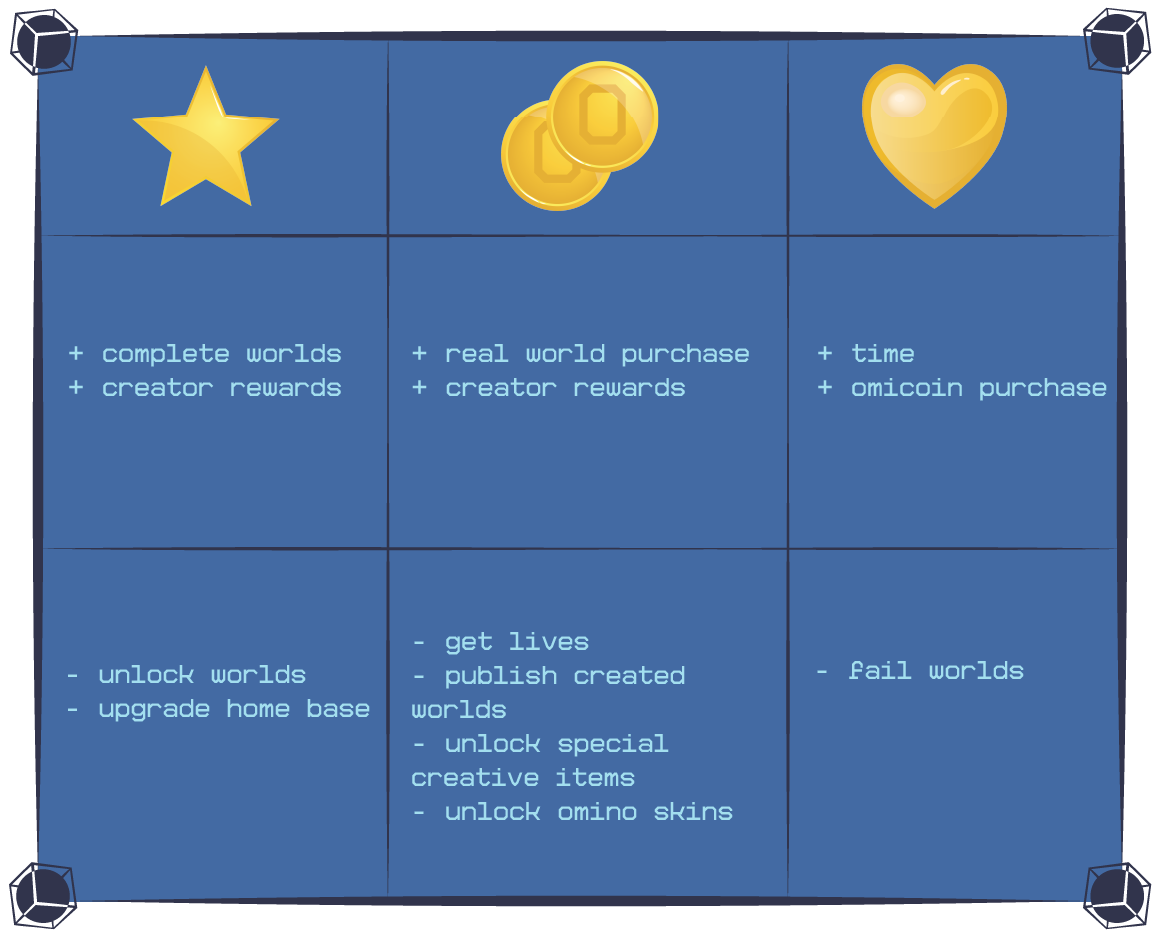
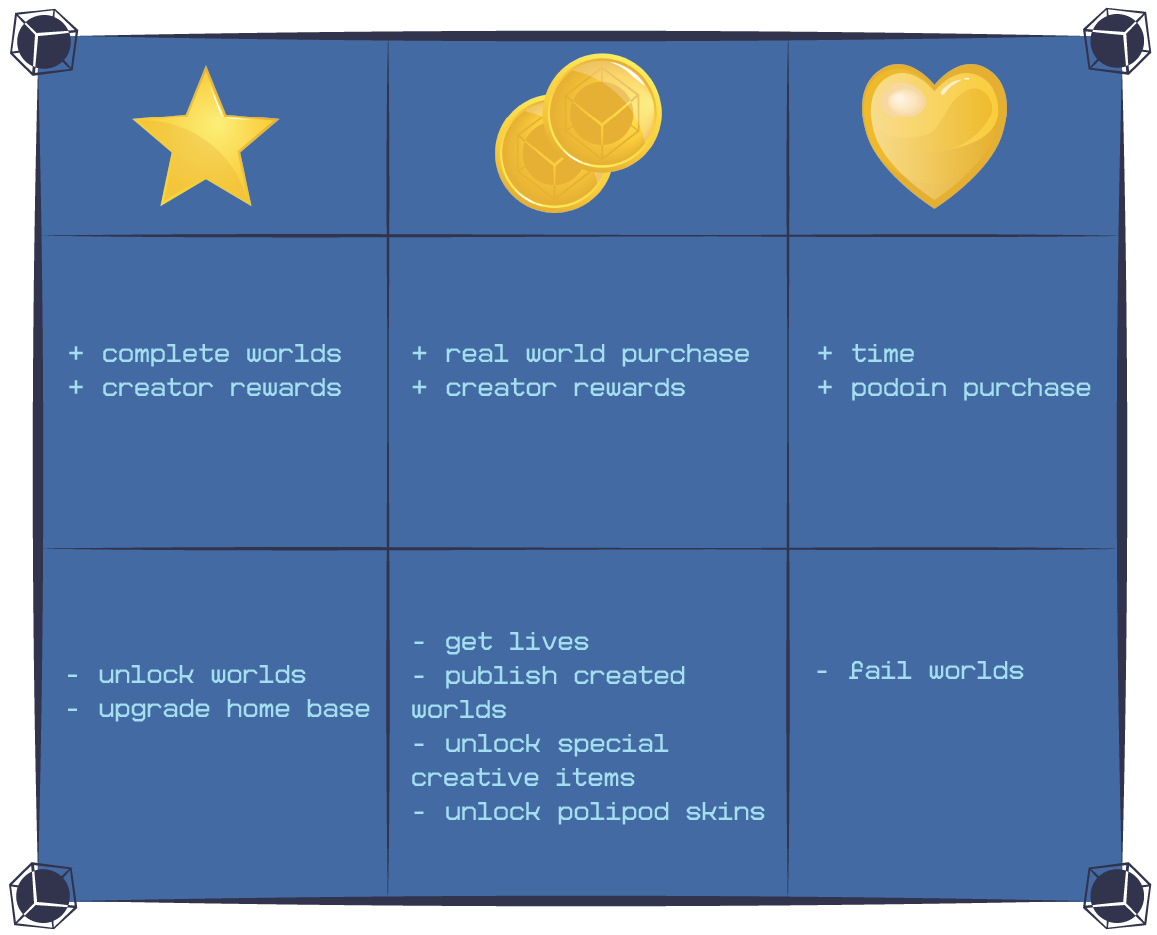
First Polipod update

diff --git a/src/features/Components/Gameplay.jsx b/src/features/Components/Gameplay.jsx
@@ -10,35 +10,35 @@ const Gameplay = () => {
                 <div className="new-grid">
                     <div className="new-grid-item">
                         <p>
-                            Omino is an isometric puzzle game where the goal is to guide a cube-shaped character into a hole on a square grid. The game demands problem solving skills, knowledge of game mechanics, spatial reasoning, computational and algorithmic thinking. 
+                            Polipod is an isometric puzzle game where the goal is to guide a cube-shaped character into a hole on a square grid. The game demands problem solving skills, knowledge of game mechanics, spatial reasoning, computational and algorithmic thinking. 
                             The player inhabits a cube, known as an Omino, which moves around by rolling.
                         </p>
                     </div>
                     <div className="new-grid-item">
-                        <Image src="images/firstCropped.png" alt="Omino" />
+                        <Image src="images/firstCropped.png" alt="Polipod" />
                     </div>
                     <div className="new-grid-item">
                     <p>
-                        Along the way, the player Omino encounters passive Ominoes. 
-                        The player Omino will attach itself to any passive Omino when one of its sides are directly adjacent to a side of a passive omino, forming a composite Omino. 
-                        Eventually more than one passive Omino is introduced, sometimes requiring the formation of interesting Domino shapes, which can dramatically change player movement.
+                        Along the way, the player Polipod encounters passive pods, called Dormipods. 
+                        The player Polipod will attach itself to any Dormipods when one of its sides are directly adjacent to a side of a Dormipod, forming a composite Polipod. 
+                        Eventually more than one Dormipod is introduced, sometimes requiring the formation of interesting Polipod shapes, which can dramatically change player movement.
                     </p>
                     </div>
                     <div className="new-grid-item">
-                        <Image src="images/crazyShape.png" alt="Omino" />
+                        <Image src="images/crazyShape.png" alt="Polipod" />
                     </div>
                     <div className="new-grid-item">
                         <p>
-                            The movement pattern can also be influenced by the environment. Different properties of environment blocks can create some physical interactions with Omino. 
-                            A typical example can be the movement on the ice, this will lead to a sliding motion of the Omino, instead of a roll, when there is a force applied.
+                            The movement pattern can also be influenced by the environment. Different properties of environment blocks can create some physical interactions with Polipod. 
+                            A typical example can be the movement on the ice, this will lead to a sliding motion of the Polipod, instead of a roll, when there is a force applied.
 
-                            On some levels, there can be switches in different colors. When an Omino onto a switch, it triggers the response from a certain environment setting such as a door or a bridge with the same color as the switch.
+                            On some levels, there can be switches in different colors. When an Polipod rolls onto a switch, it triggers the response from a certain environment setting such as a door or a bridge with the same color as the switch.
                             
-                            At certain environment blocks, attached blocks can also be detached from the Omino.
+                            If you roll onto a sucction cup, attached cubes can also be detached from the Polipod.
                         </p>
                     </div>
                     <div className="new-grid-item">
-                        <Image src="images/onIce.png" alt="Omino" />
+                        <Image src="images/onIce.png" alt="Polipod" />
                     </div>
                 </div>
             </div>

diff --git a/src/features/Us.jsx b/src/features/Us.jsx
@@ -7,14 +7,14 @@ const Us = () => {
                 <div className="new-grid us-grid">
                     <div className="multi-paragraph-item us-text">
                         <p>It all started as a school project in the fall of 2020 at KTH in Stockholm. Since the project was complete, the development has continued intermitttently and now it's finally starting to come together.</p>
-                        <p>Hannes Runelöv has been a crucial cog in this project, as he had the idea for the core mechanics of the game. He also developed these mechanics in addition to Omino creature animations, as well as creating shaders, such as ice and conveyor belts. Due to personal reasons, he will just stay on as a level designer and tester going forward.</p>
-                        <p>Everything else that you see and hear in the game was designed and developed by Jesper Englund, including game logic, level editor, data architecture, UI, movement mechanics and environment interactions, level design, music, sound effects, skyboxes and this website.</p>
+                        <p>I had some collaborators during that project, but none of them chose to continue working on the project with me. The few things that were not orignially done by me has been remade/rewritten/redesigned. So everything in Polipod was designed and developed by Jesper Englund, including game logic, level editor, data architecture, UI, shaders, movement mechanics and environment interactions, level design, music, sound effects, skyboxes and this website.</p>
+                        <p>In the fall of 2023 I started the company Omino Games AB, which will be publishing Polipod, but it's still just me working on it.</p>
                     </div>
                     <div className="center">
                         <div className="us-img-container">
                             <img src="images/jesperTransparent.png" className="grid-img us-img" alt="Jesper" />
                             <div className="img-caption">
-                                <p>Jesper Englund - Developer, designer, project manager etc.</p>
+                                <p>Jesper Englund - CEO, Developer, designer, project manager etc.</p>
                             </div>
                         </div>
                     </div>

diff --git a/src/features/Components/CreativeMode.jsx b/src/features/Components/CreativeMode.jsx
@@ -12,12 +12,12 @@ const CreativeMode = () => {
                         <img src="images/levelEditor.png" alt="Omino" />
                     </div>
                     <div className="multi-paragraph-item">
-                        <p>One of the many things that makes Omino special is the player's ability to create custom worlds and levels in an easy-to-use level editor. 
+                        <p>One of the many things that makes Polipod special is the player's ability to create custom worlds and levels in an easy-to-use level editor. 
                             This unlocks the potential of having a sea of great and unique player created content to dive into. 
                         </p>
                         <p>
                             This feature also entails a form of asynchronous multiplayer.
-                            One player might create a world and set its highscore on it, a highscore that can be set as a minimum requirement for clearing the world, 
+                            One player might create a world and set its highscore on it, a highscore that can be set as a minimum requirement for completing the world, 
                             effectively challenging any other player to beat them at their own world.
                         </p>
                         <p>

diff --git a/src/features/Components/GameEconomy.jsx b/src/features/Components/GameEconomy.jsx
@@ -18,7 +18,7 @@ const GameEconomy = () => {
                             If it's a player created world, the amount of currency earned depends on the rating of the world. The same currency is also used to unlock new worlds.
                         </p>
                         <p>
-                            There is also a hard currency, coins, which can be used to buy skins, for the Omino or for certain building blocks in the level editor, special environments in the level editor, and possibly special music for the worlds created. 
+                            There is also a hard currency, coins, which can be used to buy skins, for the Polipod or for certain building blocks in the level editor, special environments in the level editor, and possibly special music for the worlds created. 
                             This currency is also used to publish more than 1 world. This will cost real world money because of the cost of storing world data as well as a way to encourage quality in player created worlds.
                         </p>
                         <p>

diff --git a/src/features/Components/DemoVideo.jsx b/src/features/Components/DemoVideo.jsx
@@ -1,8 +1,11 @@
 const DemoVideo = () => {
     return (
-        <div className="center">
-            <iframe width="560" height="315" src="https://www.youtube.com/embed/lzzkix9G_TU" title="Demo video" allow="fullscreen; accelerometer; autoplay; clipboard-write; encrypted-media; gyroscope; picture-in-picture; web-share"></iframe>
-        </div>
+        <>
+            <div className="my-grid-header"><h3>gameplay</h3></div>
+            <div className="center">
+                <iframe width="560" height="315" src="https://www.youtube.com/embed/lzzkix9G_TU" title="Demo video" allow="fullscreen; accelerometer; autoplay; clipboard-write; encrypted-media; gyroscope; picture-in-picture; web-share"></iframe>
+            </div>
+        </>
     );
 }
 export default DemoVideo;

diff --git a/src/utils/threeUtils.js b/src/utils/threeUtils.js
@@ -70,13 +70,13 @@ export const createSceneObjects = (scene) => {
         homeTextMesh.rotation.set(-Math.PI/2,0,0);
         homeTextMesh.name = 'homeText';
         scene.scene.add(homeTextMesh);
-        const gameTextGeometry = new TextGeometry('game', {
-          size: 4,
+        const gameTextGeometry = new TextGeometry('polipod', {
+          size: 2.8,
           height: 0.1,
           font: bigPixel,
         });
         const gameTextMesh = new THREE.Mesh(gameTextGeometry, textMaterial);
-        gameTextMesh.position.set(-7.5, -9.85, 1.5);
+        gameTextMesh.position.set(-9.2, -9.85, 1.5);
         gameTextMesh.rotation.set(-Math.PI/2,0,0);
         gameTextMesh.name = 'gameText';
         scene.scene.add(gameTextMesh);

diff --git a/src/features/Home.jsx b/src/features/Home.jsx
@@ -4,7 +4,7 @@ import News from "./Components/News";
 
 const Home = () => {
     const carouselItems = [
-        { name: 'splash', img: 'images/OminoFullLogoOneColor.png', imgAlt: 'First image', imgStyle: 'opacity-25', caption: <Splash /> },
+        { name: 'splash', img: 'images/OminoGamesLogo.png', imgAlt: 'First image', imgStyle: 'opacity-25', caption: <Splash /> },
         { name: 'news', img: 'images/4fly.png', imgAlt: 'second image', caption: <News /> },
       ];
       

diff --git a/src/features/Components/Progression.jsx b/src/features/Components/Progression.jsx
@@ -15,7 +15,7 @@ const Progression = () => {
                         </p>
                     </div>
                     <div className="new-grid-item long-pic">
-                        <Image src="images/worldBrowser.png" alt="Omino" />
+                        <Image src="images/worldBrowser.png" alt="Polipod" />
                     </div>
                 </div>
             </div>

diff --git a/src/features/Components/Splash.jsx b/src/features/Components/Splash.jsx
@@ -9,7 +9,7 @@ const Splash = () => {
     return (
         <div className="splash">
             <div className='download-btn-container'>
-                <button className="lg">download</button>
+                <button className="lg">download polipod</button>
             </div>
             <div className="icons-container">
                 <div className="autogrid">

diff --git a/index.html b/index.html
@@ -6,7 +6,7 @@
     <link rel="stylesheet" href="./src/index-tw.css">
     <script src="https://kit.fontawesome.com/cadd50f99f.js" crossorigin="anonymous"></script>
     <meta name="viewport" content="width=device-width, initial-scale=1.0" />
-    <title>Omino</title>
+    <title>Omino Games</title>
   </head>
   <body>
     <div id="root"></div>
